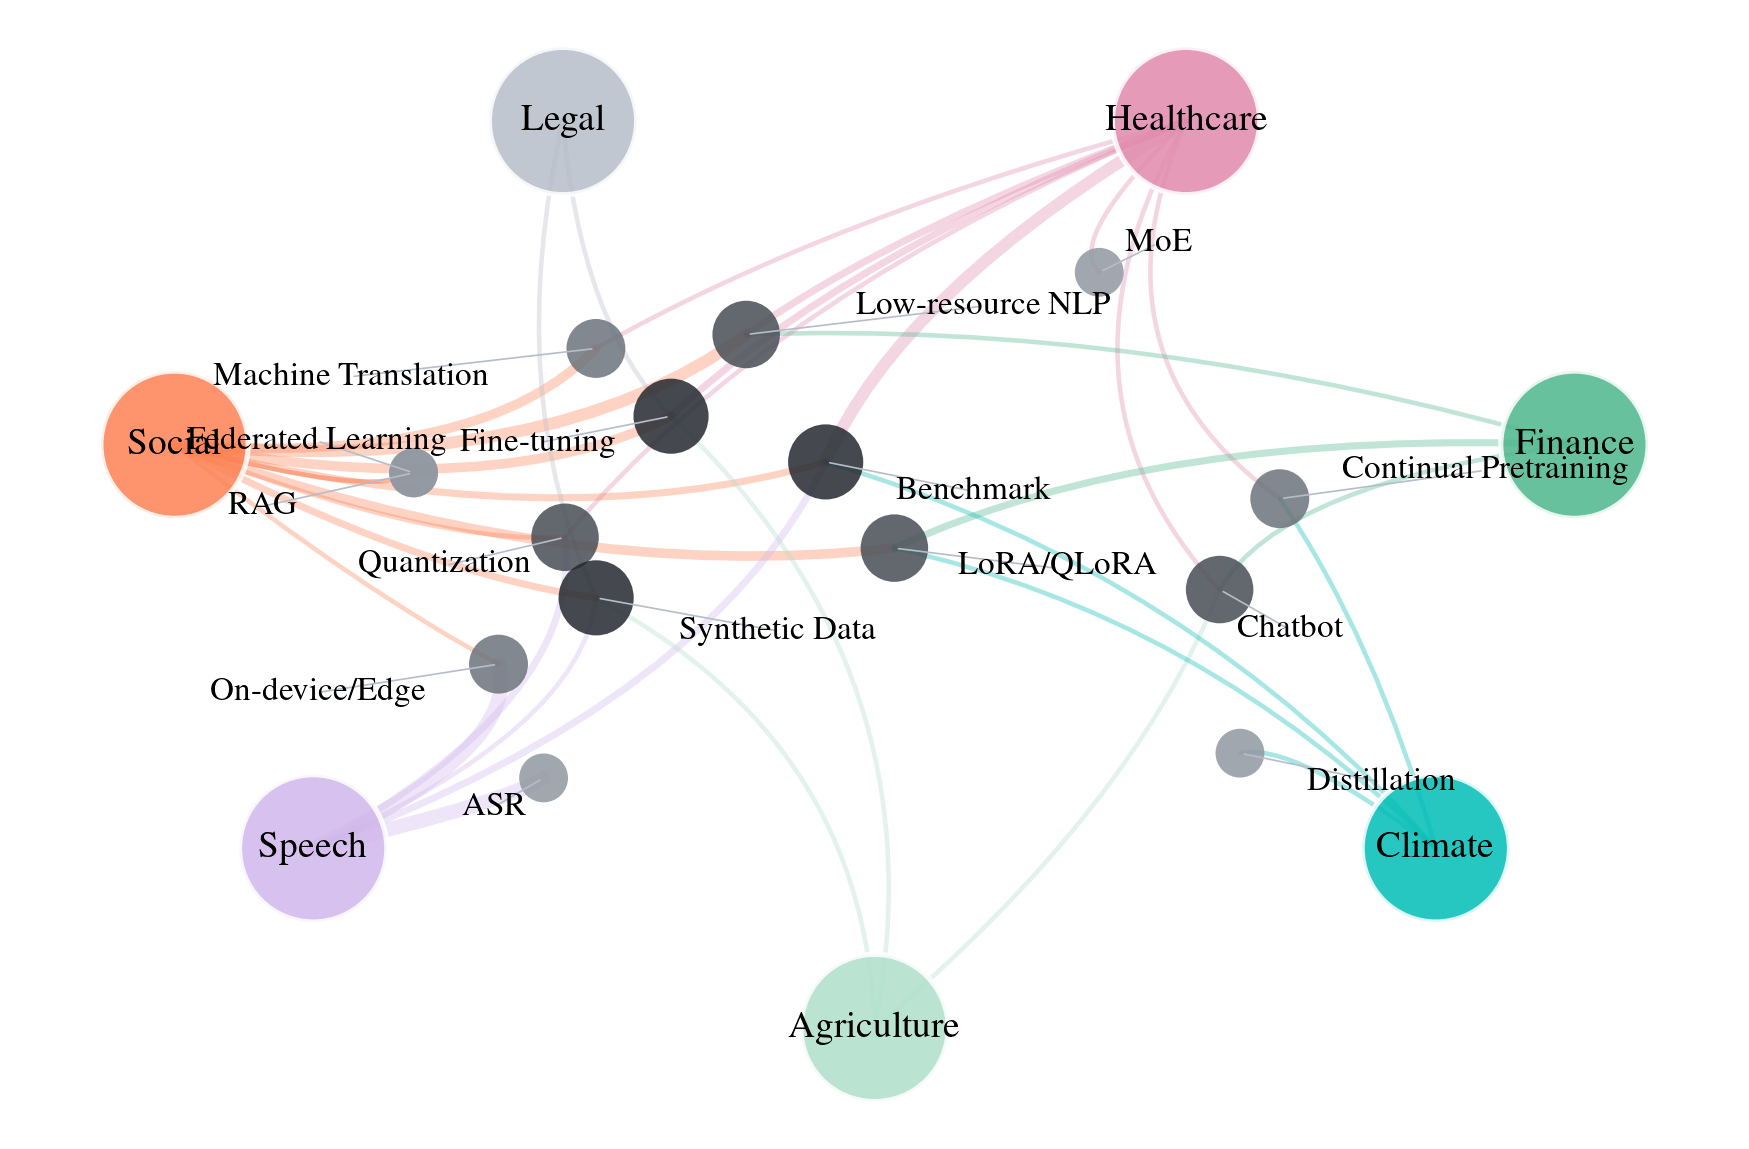
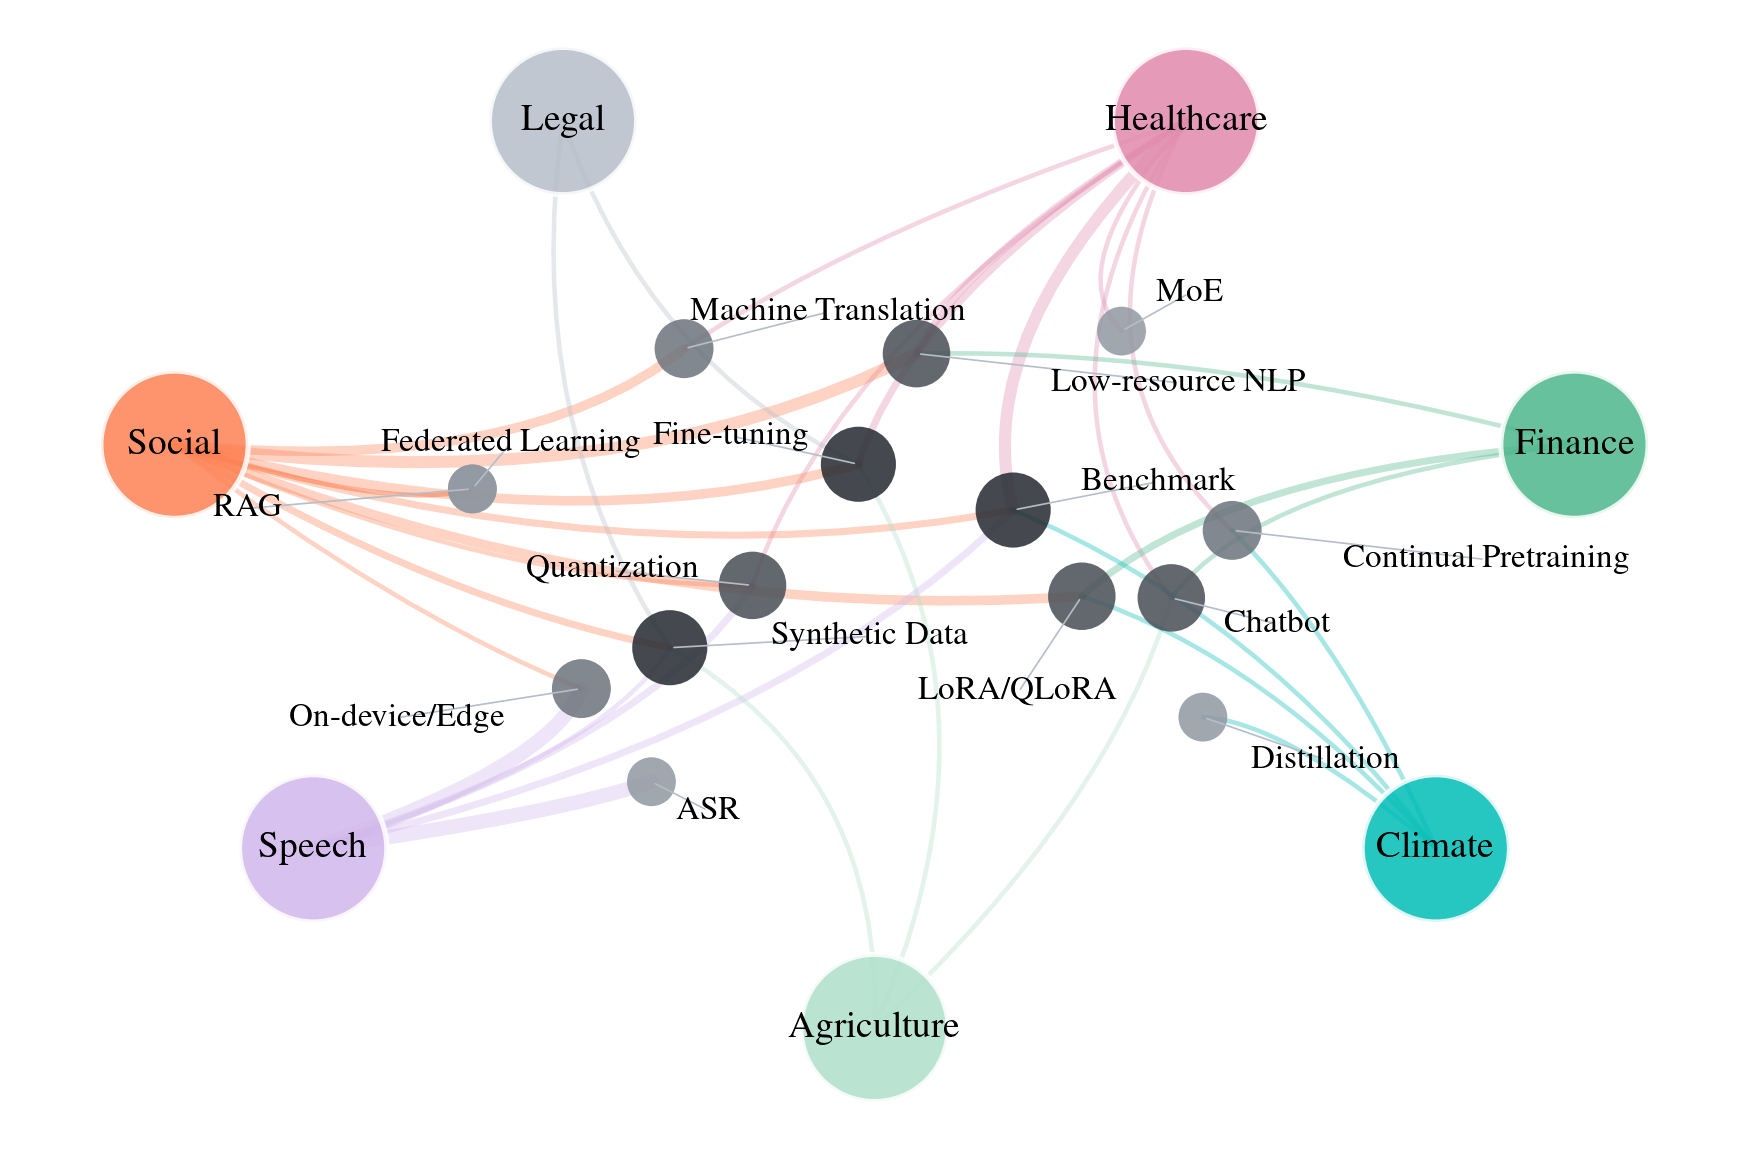
[wip] Update

diff --git a/analysis/deployment_domains.py b/analysis/deployment_domains.py
@@ -200,14 +200,22 @@ def plot_domain_technique_network(
         seed=42,
     )
 
+    # Re-center technique cloud: shift so centroid is at origin
+    tech_xs = [full_pos[t][0] for t in technique_nodes]
+    tech_ys = [full_pos[t][1] for t in technique_nodes]
+    cx_off = np.mean(tech_xs)
+    cy_off = np.mean(tech_ys)
+    for t in technique_nodes:
+        x, y = full_pos[t]
+        full_pos[t] = (x - cx_off, y - cy_off)
+
     # Clamp technique nodes: high-degree nodes pulled closer to center
     max_degree = max(G.nodes[t].get("degree", 1) for t in technique_nodes)
     for t in technique_nodes:
         x, y = full_pos[t]
         degree = G.nodes[t].get("degree", 1)
-        # High degree → tighter max distance (closer to center)
         frac = degree / max_degree
-        max_dist = radius * (0.75 - 0.35 * frac)
+        max_dist = radius * (0.65 - 0.30 * frac)
         dist = np.sqrt(x**2 + y**2)
         if dist > max_dist:
             scale = max_dist / dist
